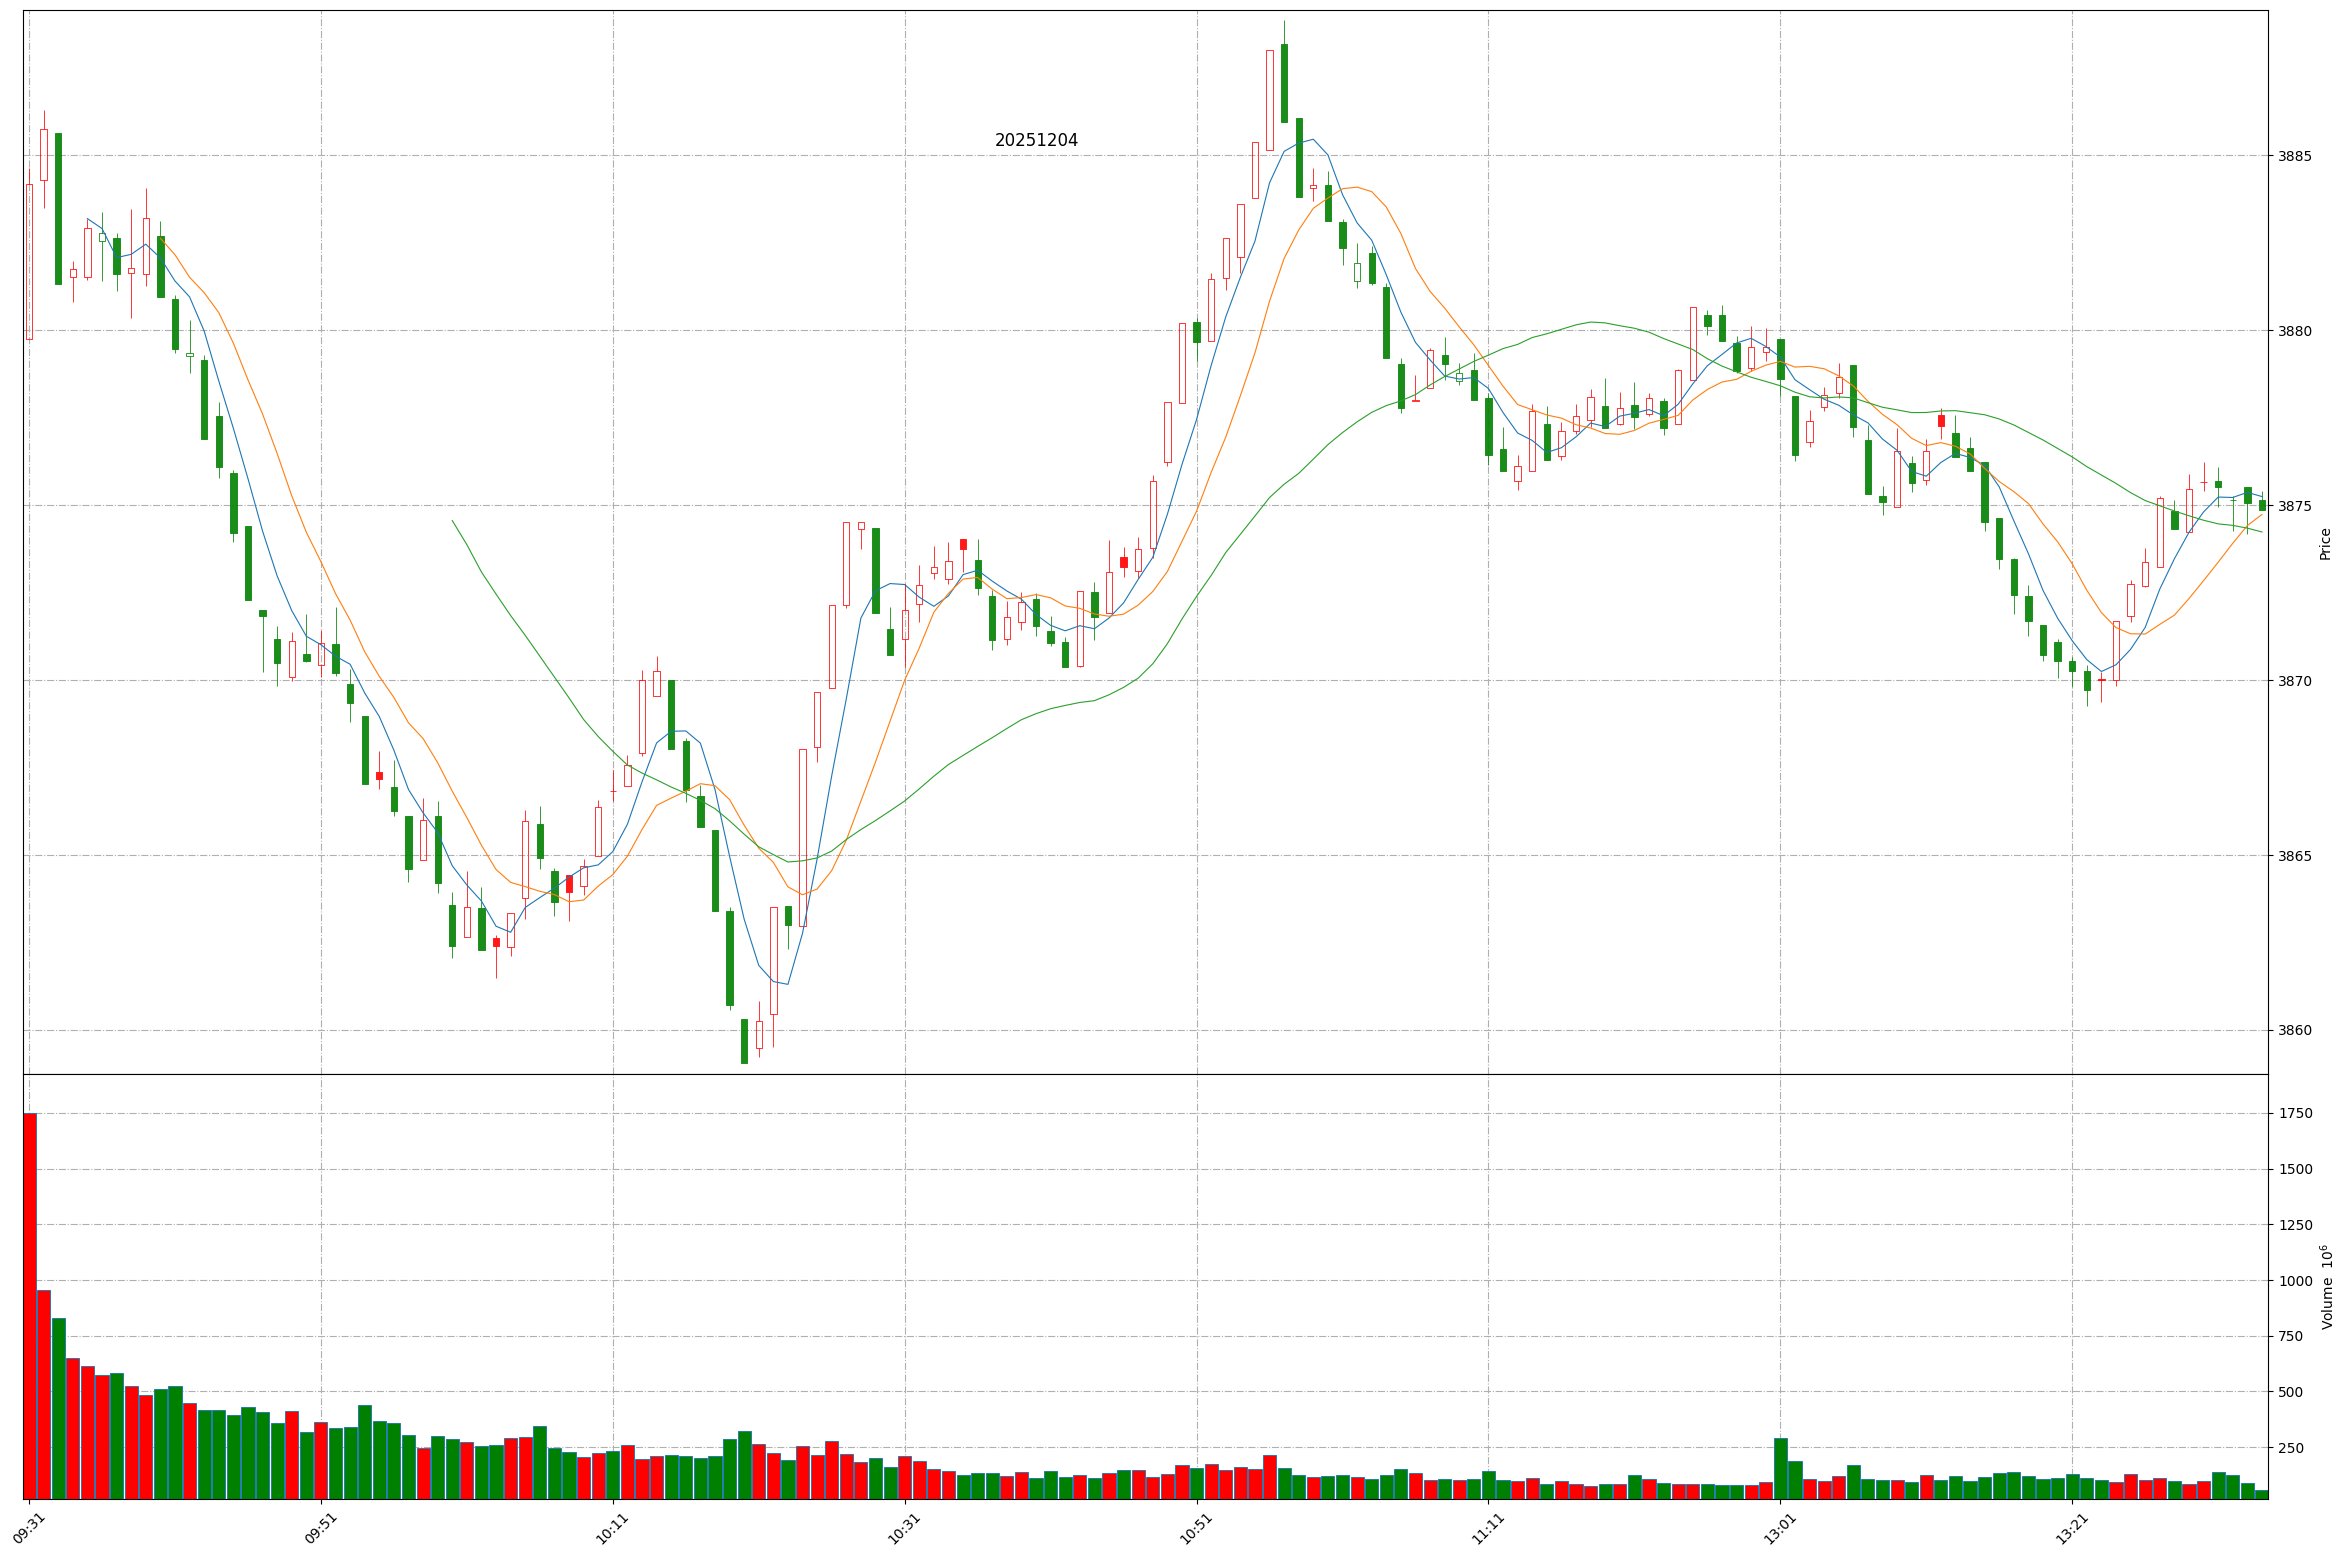
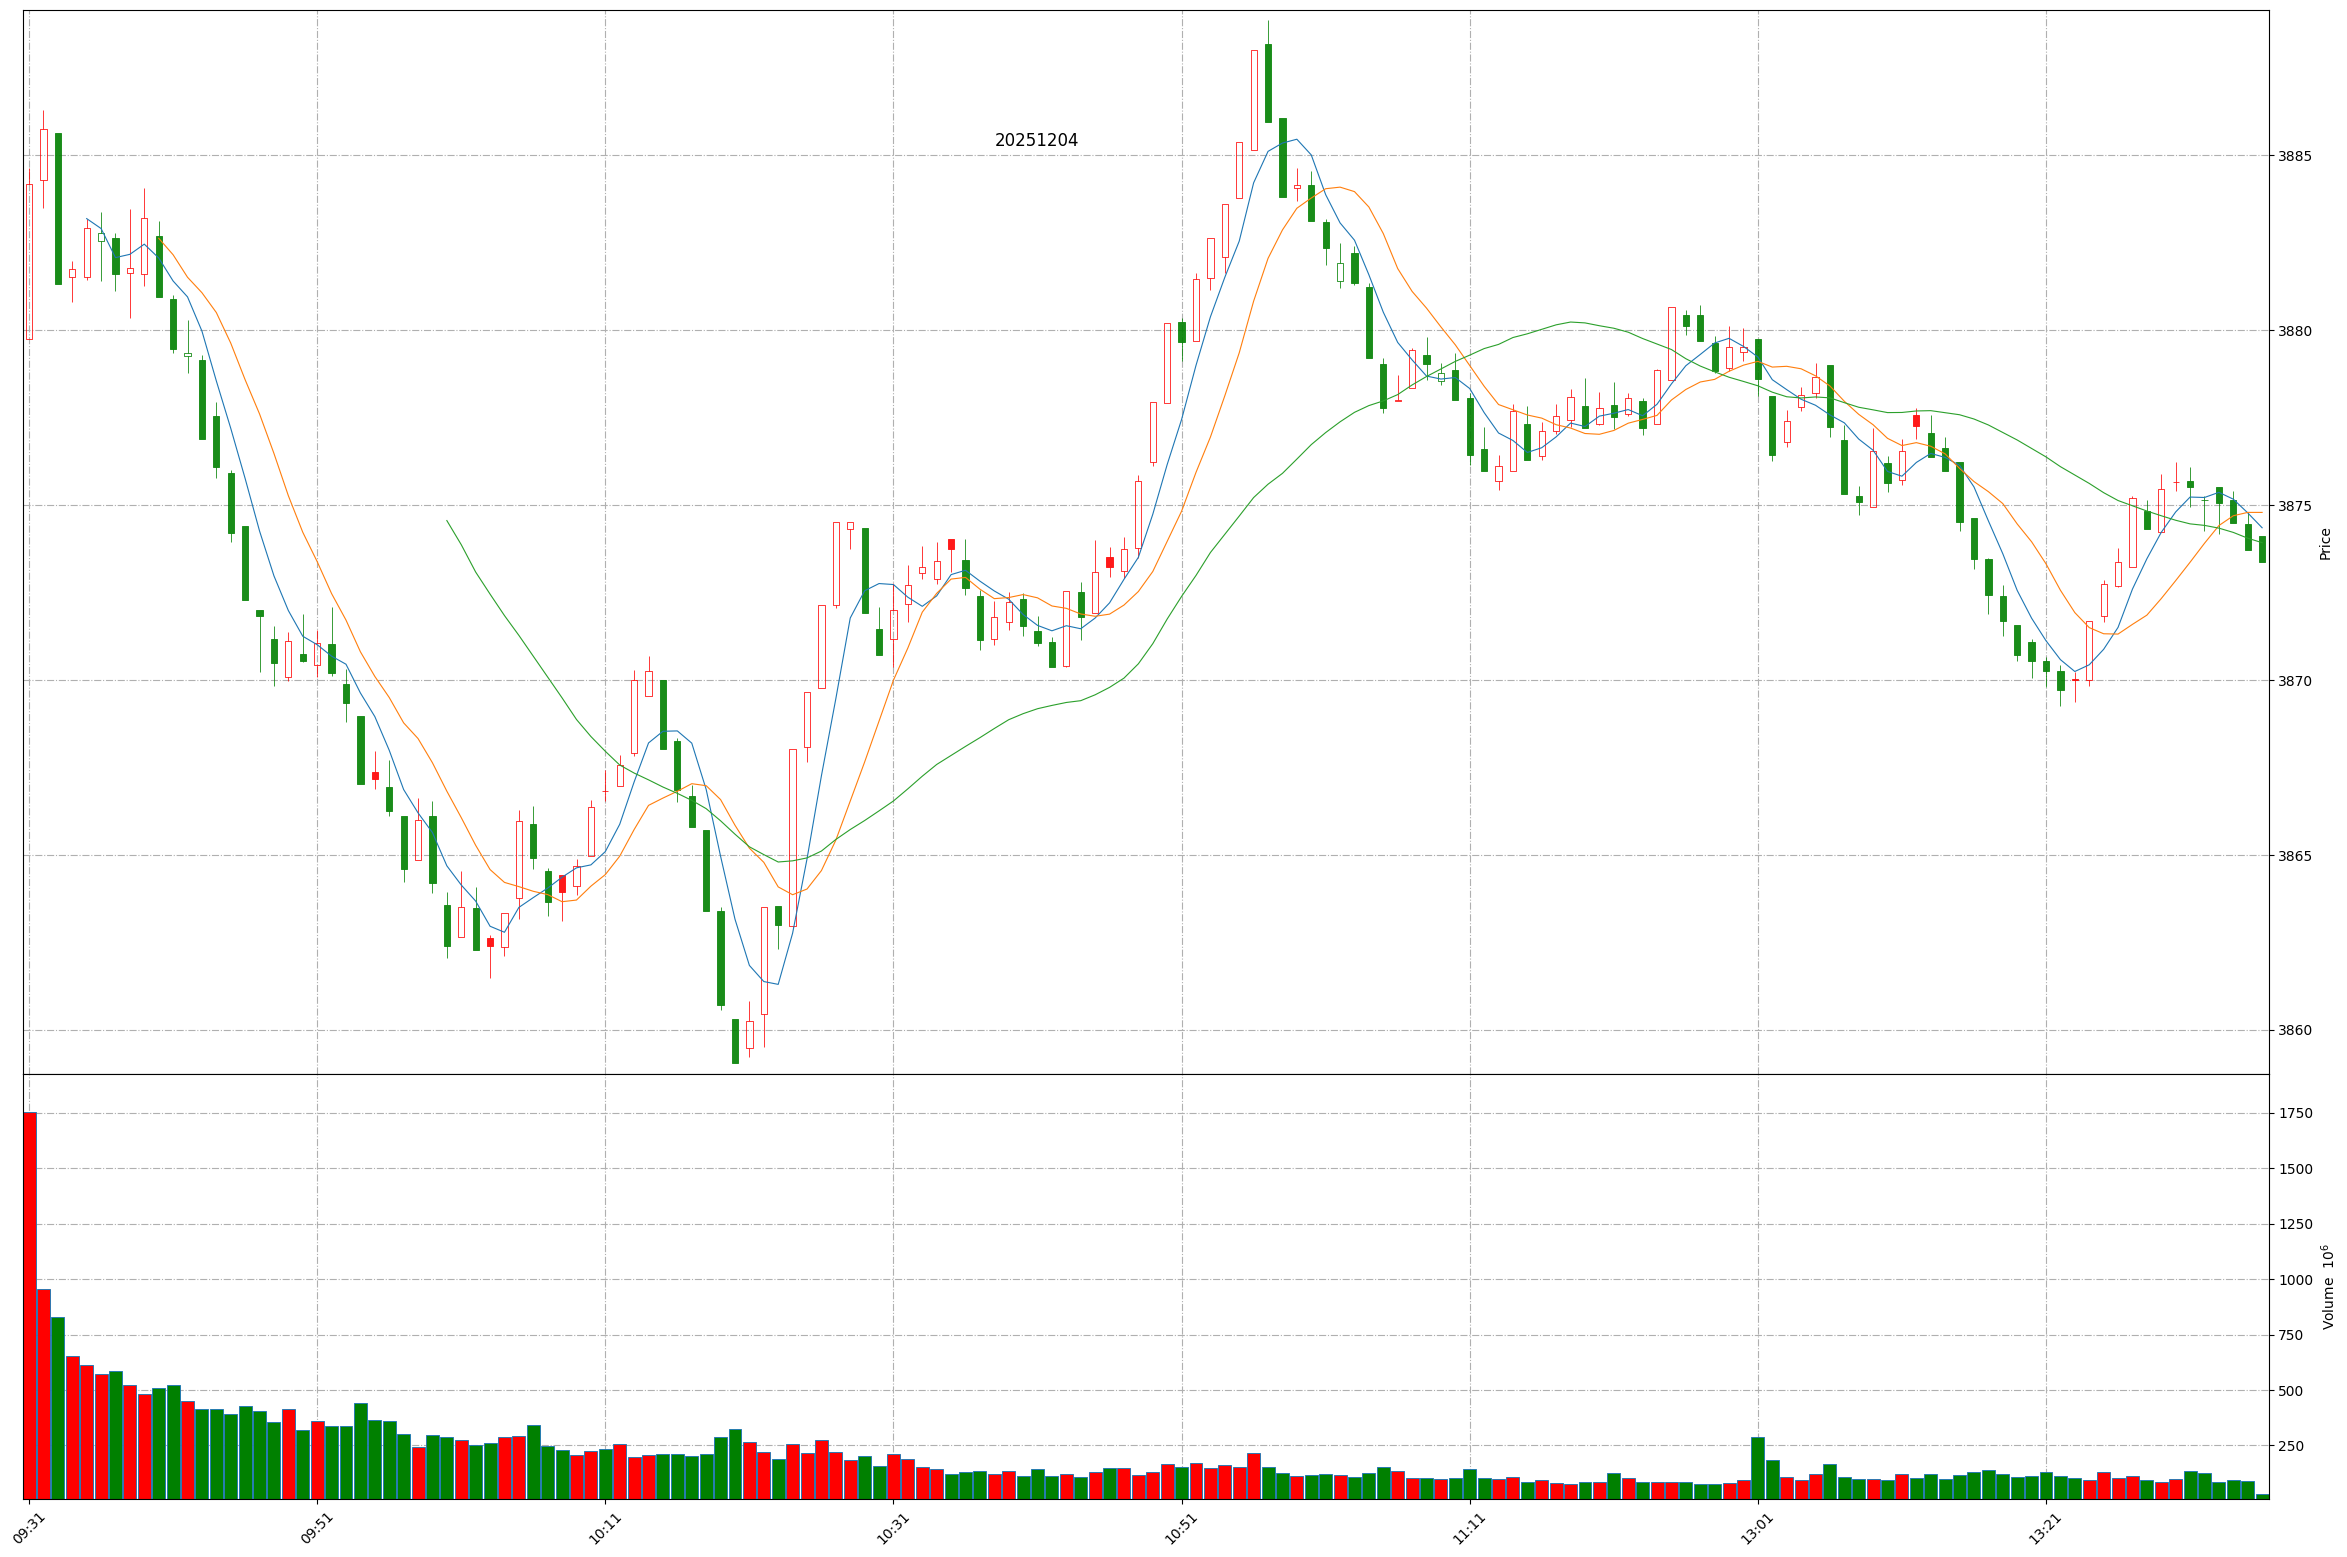
Github action update at 2025-12-04 13:35:37.

diff --git a/README.md b/README.md
@@ -1,11 +1,11 @@
 
 # Daily-A-share-market-quotes 每日 A 股指数（5min 更新）- 20251204
 
-### 上证指数 20251204 13:33
+### 上证指数 20251204 13:35
 ![](./fig/2025/12/20251204-sh000001.png)
 
-### 深证成指 20251204 13:33
+### 深证成指 20251204 13:35
 ![](./fig/2025/12/20251204-sz399001.png)
 
-### 北证50 20251204 13:33
+### 北证50 20251204 13:35
 ![](./fig/2025/12/20251204-bj899050.png)
